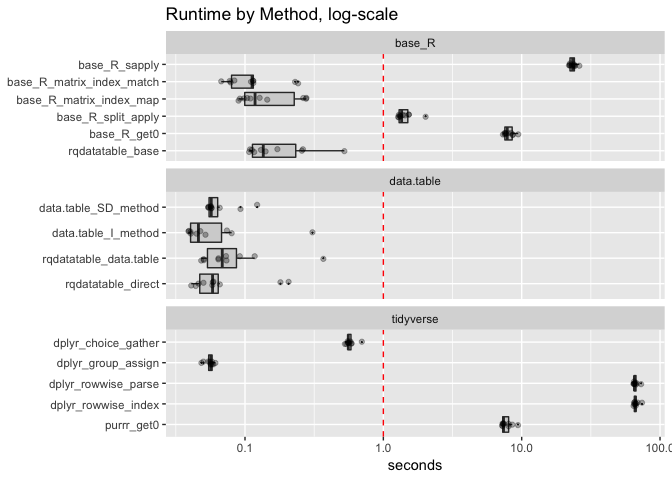
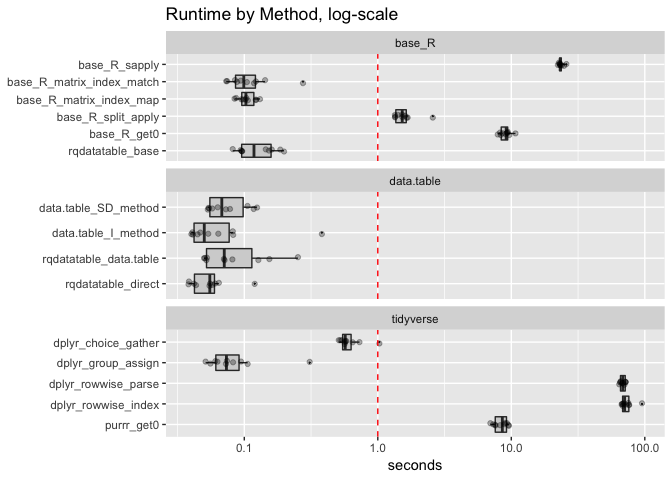
re-run

diff --git a/TimeColumnLookups/timings.md b/TimeColumnLookups/timings.md
@@ -20,6 +20,7 @@ library("dplyr")
     ##     intersect, setdiff, setequal, union
 
 ``` r
+library("dtplyr")
 library("tidyr")
 library("purrr")
 library("wrapr")
@@ -69,8 +70,6 @@ mk_data <- function(n) {
              choice = rep(c("x", "y"), ceiling(n/2))[1:n],
              stringsAsFactors = FALSE)
 }
-
-df <- mk_data(1000000)
 ```
 
 ``` r
@@ -129,6 +128,7 @@ base_R_get0 <- function(df) {
     do.call(mapply,c(df,FUN = function(...)
       with(list(...),
            get0(choice,ifnotfound = NA, inherits = FALSE))))
+  df
 }
 
 purrr_get0 <- function(df) {
@@ -171,6 +171,16 @@ dplyr_group_assign <- function(df) {
     ungroup() 
 }
 
+dtplyr_group_assign <- function(df) {
+  # http://www.win-vector.com/blog/2018/09/using-a-column-as-a-column-index/
+  dt <- as.data.table(df)
+  dt %>% 
+    group_by(choice) %>%
+    mutate(derived = .data[[ choice[[1]] ]]) %>%
+    ungroup() 
+}
+
+
 dplyr_rowwise_parse <- function(df) {
   # http://www.win-vector.com/blog/2018/09/using-a-column-as-a-column-index/#comment-67006
   df %>%
@@ -191,6 +201,158 @@ rqdatatable_direct <- make_dt_lookup_by_column("choice", "derived")
 ```
 
 ``` r
+df <- mk_data(3)
+
+base_R_sapply(df)
+```
+
+    ##   x y choice derived
+    ## 1 1 4      x       1
+    ## 2 2 5      y       5
+    ## 3 3 6      x       3
+
+``` r
+base_R_matrix_index_match(df)
+```
+
+    ##   x y choice derived
+    ## 1 1 4      x       1
+    ## 2 2 5      y       5
+    ## 3 3 6      x       3
+
+``` r
+base_R_matrix_index_map(df)
+```
+
+    ##   x y choice derived
+    ## 1 1 4      x       1
+    ## 2 2 5      y       5
+    ## 3 3 6      x       3
+
+``` r
+base_R_split_apply(df)
+```
+
+    ##     x y choice derived
+    ## x.1 1 4      x       1
+    ## y   2 5      y       5
+    ## x.3 3 6      x       3
+
+``` r
+base_R_get0(df)
+```
+
+    ##   x y choice derived
+    ## 1 1 4      x       1
+    ## 2 2 5      y       5
+    ## 3 3 6      x       3
+
+``` r
+data.table_SD_method(df)
+```
+
+    ##    x y choice derived
+    ## 1: 1 4      x       1
+    ## 2: 2 5      y       5
+    ## 3: 3 6      x       3
+
+``` r
+data.table_I_method(df)
+```
+
+    ##    x y choice derived
+    ## 1: 1 4      x       1
+    ## 2: 2 5      y       5
+    ## 3: 3 6      x       3
+
+``` r
+dplyr_choice_gather(df)
+```
+
+    ##   derived x y choice
+    ## 1       1 1 4      x
+    ## 2       5 2 5      y
+    ## 3       3 3 6      x
+
+``` r
+dplyr_group_assign(df)
+```
+
+    ## # A tibble: 3 x 4
+    ##       x     y choice derived
+    ##   <dbl> <dbl> <chr>    <dbl>
+    ## 1     1     4 x            1
+    ## 2     2     5 y            5
+    ## 3     3     6 x            3
+
+``` r
+dplyr_rowwise_parse(df)
+```
+
+    ## # A tibble: 3 x 4
+    ##       x     y choice derived
+    ##   <dbl> <dbl> <chr>    <dbl>
+    ## 1     1     4 x            1
+    ## 2     2     5 y            5
+    ## 3     3     6 x            3
+
+``` r
+dplyr_rowwise_index(df)
+```
+
+    ## # A tibble: 3 x 4
+    ##       x     y choice derived
+    ##   <dbl> <dbl> <chr>    <dbl>
+    ## 1     1     4 x            1
+    ## 2     2     5 y            5
+    ## 3     3     6 x            3
+
+``` r
+purrr_get0(df)
+```
+
+    ##   x y choice derived
+    ## 1 1 4      x       1
+    ## 2 2 5      y       5
+    ## 3 3 6      x       3
+
+``` r
+lookup_by_column(df, "choice", "derived")
+```
+
+    ##    x y choice derived
+    ## 1: 1 4      x       1
+    ## 2: 2 5      y       5
+    ## 3: 3 6      x       3
+
+``` r
+lookup_by_column(df, "choice", "derived",
+                 f_dt_factory = make_dt_lookup_by_column)
+```
+
+    ##    x y choice derived
+    ## 1: 1 4      x       1
+    ## 2: 2 5      y       5
+    ## 3: 3 6      x       3
+
+``` r
+rqdatatable_direct(df)
+```
+
+    ##    x y choice derived
+    ## 1: 1 4      x       1
+    ## 2: 2 5      y       5
+    ## 3: 3 6      x       3
+
+``` r
+dtplyr_group_assign(df)
+```
+
+    ## Error in data.table::is.data.table(data): Column `x` not found in `.data`
+
+``` r
+df <- mk_data(1000000)
+
 timings <- microbenchmark(
   base_R_sapply = base_R_sapply(df),
   base_R_matrix_index_match = base_R_matrix_index_match(df),
@@ -250,21 +412,21 @@ tdf %.>%
 ```
 
     ##                        method mean_seconds
-    ##  1:        dplyr_group_assign   0.05572662
-    ##  2:      data.table_SD_method   0.06716999
-    ##  3:       data.table_I_method   0.07647618
-    ##  4:        rqdatatable_direct   0.08096200
-    ##  5:    rqdatatable_data.table   0.10015152
-    ##  6: base_R_matrix_index_match   0.12339813
-    ##  7:   base_R_matrix_index_map   0.15831438
-    ##  8:          rqdatatable_base   0.19300777
-    ##  9:       dplyr_choice_gather   0.57444927
-    ## 10:        base_R_split_apply   1.44026938
-    ## 11:                purrr_get0   7.79135940
-    ## 12:               base_R_get0   8.08021361
-    ## 13:             base_R_sapply  23.39829664
-    ## 14:       dplyr_rowwise_parse  66.42461707
-    ## 15:       dplyr_rowwise_index  66.97595121
+    ##  1:        rqdatatable_direct   0.05749327
+    ##  2:      data.table_SD_method   0.07813813
+    ##  3:       data.table_I_method   0.08768025
+    ##  4:    rqdatatable_data.table   0.09620344
+    ##  5:        dplyr_group_assign   0.09693442
+    ##  6:   base_R_matrix_index_map   0.10515933
+    ##  7: base_R_matrix_index_match   0.11784773
+    ##  8:          rqdatatable_base   0.13066374
+    ##  9:       dplyr_choice_gather   0.62650677
+    ## 10:        base_R_split_apply   1.60048383
+    ## 11:                purrr_get0   8.40143217
+    ## 12:               base_R_get0   9.06148395
+    ## 13:             base_R_sapply  23.54550663
+    ## 14:       dplyr_rowwise_parse  68.37240328
+    ## 15:       dplyr_rowwise_index  73.53886016
 
 ``` r
 WVPlots::ScatterBoxPlotH(tdf, "seconds","method",  
